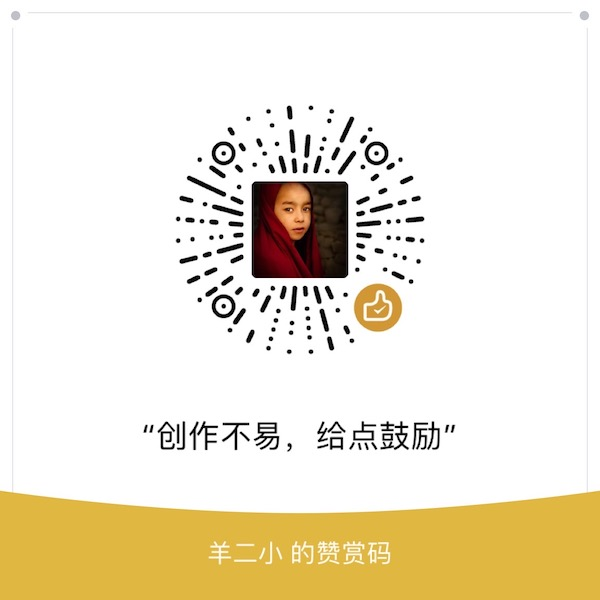
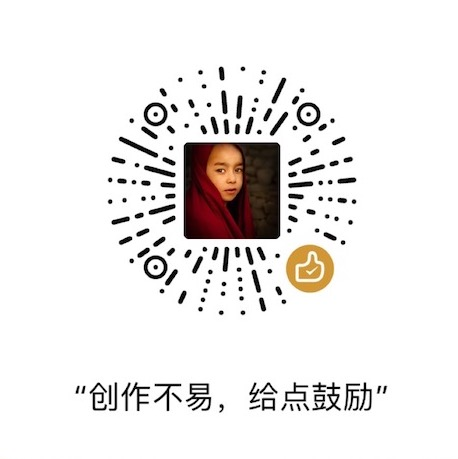
refactor: compact info modal padding

diff --git a/src/components/InfoModal.js b/src/components/InfoModal.js
@@ -27,7 +27,7 @@ const Wrapper = styled.section`
   }
   .info {
     z-index: 9;
-    padding: 1.4rem 1rem;
+    padding: 1rem;
     width: 22rem;
     box-shadow: 0 0 9px black;
     border-radius: 8px;
@@ -60,7 +60,8 @@ const Wrapper = styled.section`
       font-weight: 800;
     }
     .producthunt {
-      margin: 1rem 0;
+      margin-top: 1rem;
+      margin-bottom: 0.2rem;
       display: block;
       img {
         width: 10rem;
@@ -69,11 +70,12 @@ const Wrapper = styled.section`
     }
     > p {
       font-size: 0.6rem;
-      line-height: 1.4;
+      line-height: 1.2;
       margin-bottom: 0.5rem;
       display: flex;
-      flex-direction: column;
-      a {
+      justify-content: center;
+      a,
+      > span {
         padding: 0 0.4rem;
       }
       &.btns {
@@ -87,7 +89,7 @@ const Wrapper = styled.section`
       }
     }
     .reward {
-      width: 13rem;
+      width: 10rem;
       border-radius: 0.4rem;
     }
   }
@@ -106,36 +108,33 @@ export default function InfoModal({ closeModal, bgColor }) {
 
         <img className="reward" src={RewardImage} alt="reward image" />
 
-        {process.env.NODE_ENV === 'production' && (
-          <>
-            <a
-              className="producthunt"
-              href="https://www.producthunt.com/posts/chinese-color?utm_source=badge-featured&utm_medium=badge&utm_souce=badge-chinese-color"
-              target="_blank"
-            >
-              <img
-                src="https://api.producthunt.com/widgets/embed-image/v1/featured.svg?post_id=167119&theme=dark"
-                alt="Chinese Traditional Color - Chinese Color Cheatsheet Online! "
-              />
-            </a>
-            <p className="btns">
-              <GitHubButton
-                href="https://github.com/zerosoul/chinese-colors"
-                data-show-count="true"
-                aria-label="Star zerosoul/chinese-colors on GitHub"
-              >
-                Star
-              </GitHubButton>
-              <GitHubButton
-                href="https://github.com/zerosoul/chinese-colors/fork"
-                data-show-count="true"
-                aria-label="Fork zerosoul/chinese-colors on GitHub"
-              >
-                Fork
-              </GitHubButton>
-            </p>
-          </>
-        )}
+        <a
+          className="producthunt"
+          href="https://www.producthunt.com/posts/chinese-color?utm_source=badge-featured&utm_medium=badge&utm_souce=badge-chinese-color"
+          target="_blank"
+        >
+          <img
+            src="https://api.producthunt.com/widgets/embed-image/v1/featured.svg?post_id=167119&theme=dark"
+            alt="Chinese Traditional Color - Chinese Color Cheatsheet Online! "
+          />
+        </a>
+        <p className="btns">
+          <GitHubButton
+            href="https://github.com/zerosoul/chinese-colors"
+            data-show-count="true"
+            aria-label="Star zerosoul/chinese-colors on GitHub"
+          >
+            Star
+          </GitHubButton>
+          <GitHubButton
+            href="https://github.com/zerosoul/chinese-colors/fork"
+            data-show-count="true"
+            aria-label="Fork zerosoul/chinese-colors on GitHub"
+          >
+            Fork
+          </GitHubButton>
+        </p>
+
         <p>
           <span>
             Inspired by
@@ -143,15 +142,15 @@ export default function InfoModal({ closeModal, bgColor }) {
               Nipponcolors
             </a>
           </span>
-        </p>
-        <p>
+          <span>&</span>
           <span>
             数据来源：
             <a href="http://blog.sina.com.cn/s/blog_5c3b139d0101deia.html" target="_blank">
-              新浪博客：中国传统颜色卡
+              中国传统颜色卡
             </a>
           </span>
         </p>
+
         <p>
           <span>
             Copyright © 2019 by
